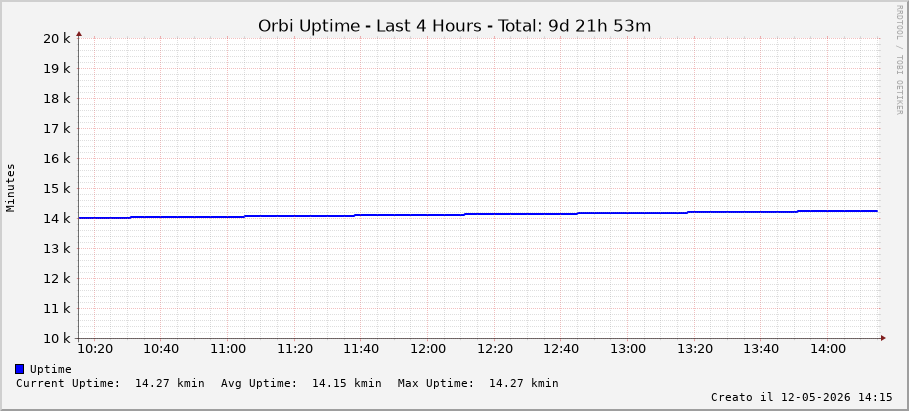
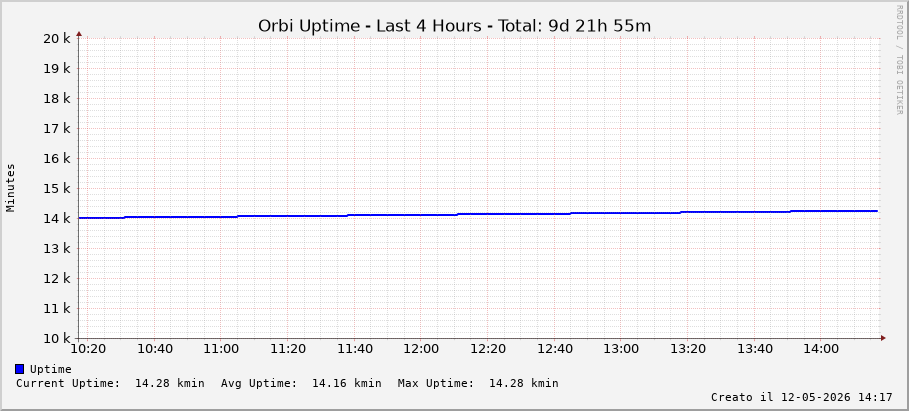
RBR50 update 2026-05-12 14:18:02

diff --git a/index.html b/index.html
@@ -41,38 +41,38 @@
 
 <div class="graph-container">
     <h2>Ultime 4 Ore</h2>
-    <img class="graph" src="images/orbi_traffic_1h.png?v=1778588161" alt="Traffico Ultima Ora">
-    <img class="graph" src="images/orbi_uptime_1h.png?v=1778588161" alt="Uptime Ultima Ora">
+    <img class="graph" src="images/orbi_traffic_1h.png?v=1778588281" alt="Traffico Ultima Ora">
+    <img class="graph" src="images/orbi_uptime_1h.png?v=1778588281" alt="Uptime Ultima Ora">
 </div>
 
 <div class="graph-container">
     <h2>Ultimo Giorno</h2>
-    <img class="graph" src="images/orbi_traffic_1d.png?v=1778588161" alt="Traffico Ultimo Giorno">
-    <img class="graph" src="images/orbi_uptime_1d.png?v=1778588161" alt="Uptime Ultimo Giorno">
+    <img class="graph" src="images/orbi_traffic_1d.png?v=1778588281" alt="Traffico Ultimo Giorno">
+    <img class="graph" src="images/orbi_uptime_1d.png?v=1778588281" alt="Uptime Ultimo Giorno">
 </div>
 
 <div class="graph-container">
     <h2>Ultima Settimana</h2>
-    <img class="graph" src="images/orbi_traffic_1w.png?v=1778588161" alt="Traffico Ultima Settimana">
-    <img class="graph" src="images/orbi_uptime_1w.png?v=1778588161" alt="Uptime Ultima Settimana">
+    <img class="graph" src="images/orbi_traffic_1w.png?v=1778588281" alt="Traffico Ultima Settimana">
+    <img class="graph" src="images/orbi_uptime_1w.png?v=1778588281" alt="Uptime Ultima Settimana">
 </div>
 
 <div class="graph-container">
     <h2>Ultimo Mese</h2>
-    <img class="graph" src="images/orbi_traffic_1m.png?v=1778588161" alt="Traffico Ultimo Mese">
-    <img class="graph" src="images/orbi_uptime_1m.png?v=1778588161" alt="Uptime Ultimo Mese">
+    <img class="graph" src="images/orbi_traffic_1m.png?v=1778588281" alt="Traffico Ultimo Mese">
+    <img class="graph" src="images/orbi_uptime_1m.png?v=1778588281" alt="Uptime Ultimo Mese">
 </div>
 
 <div class="graph-container">
     <h2>Ultimo Anno</h2>
-    <img class="graph" src="images/orbi_traffic_1y.png?v=1778588161" alt="Traffico Ultimo Anno">
-    <img class="graph" src="images/orbi_uptime_1y.png?v=1778588161" alt="Uptime Ultimo Anno">
+    <img class="graph" src="images/orbi_traffic_1y.png?v=1778588281" alt="Traffico Ultimo Anno">
+    <img class="graph" src="images/orbi_uptime_1y.png?v=1778588281" alt="Uptime Ultimo Anno">
 </div>
 
 <div class="graph-container">
     <h2>Ultimi 5 Anni</h2>
-    <img class="graph" src="images/orbi_traffic_5y.png?v=1778588161" alt="Traffico Ultimi 5 Anni">
-    <img class="graph" src="images/orbi_uptime_5y.png?v=1778588161" alt="Uptime Ultimi 5 Anni">
+    <img class="graph" src="images/orbi_traffic_5y.png?v=1778588281" alt="Traffico Ultimi 5 Anni">
+    <img class="graph" src="images/orbi_uptime_5y.png?v=1778588281" alt="Uptime Ultimi 5 Anni">
 </div>
 
 <div class="footer">
